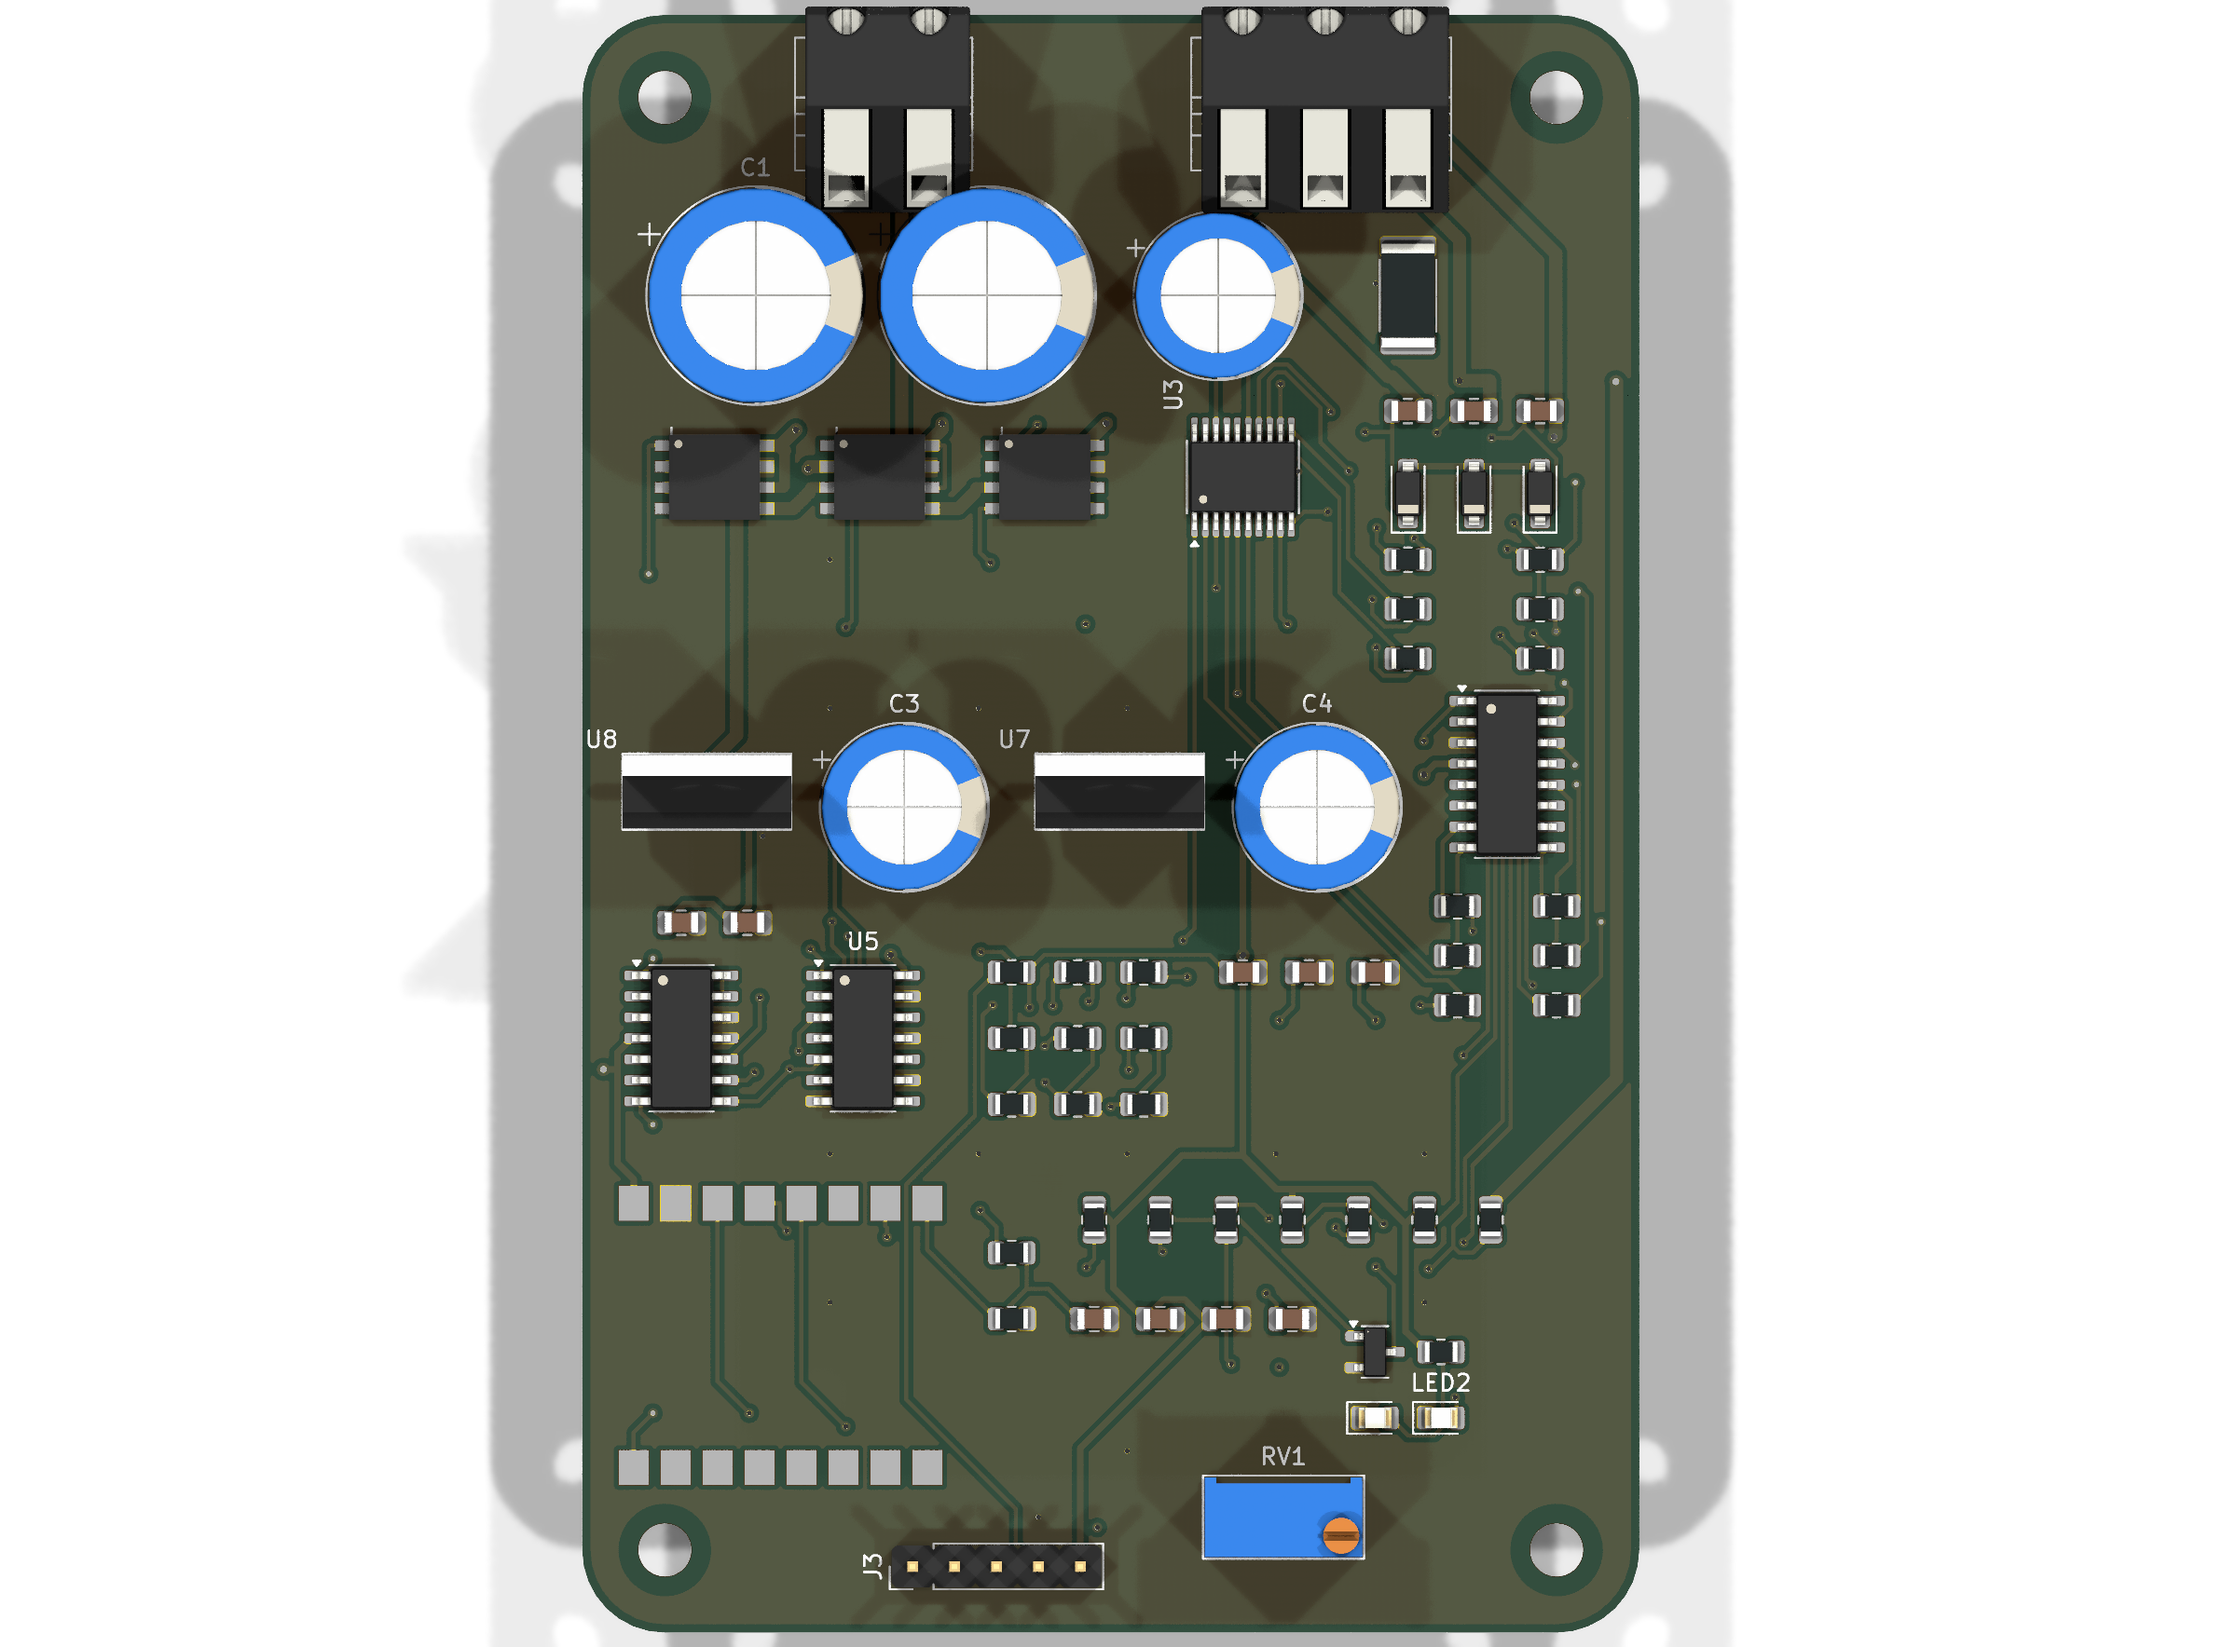
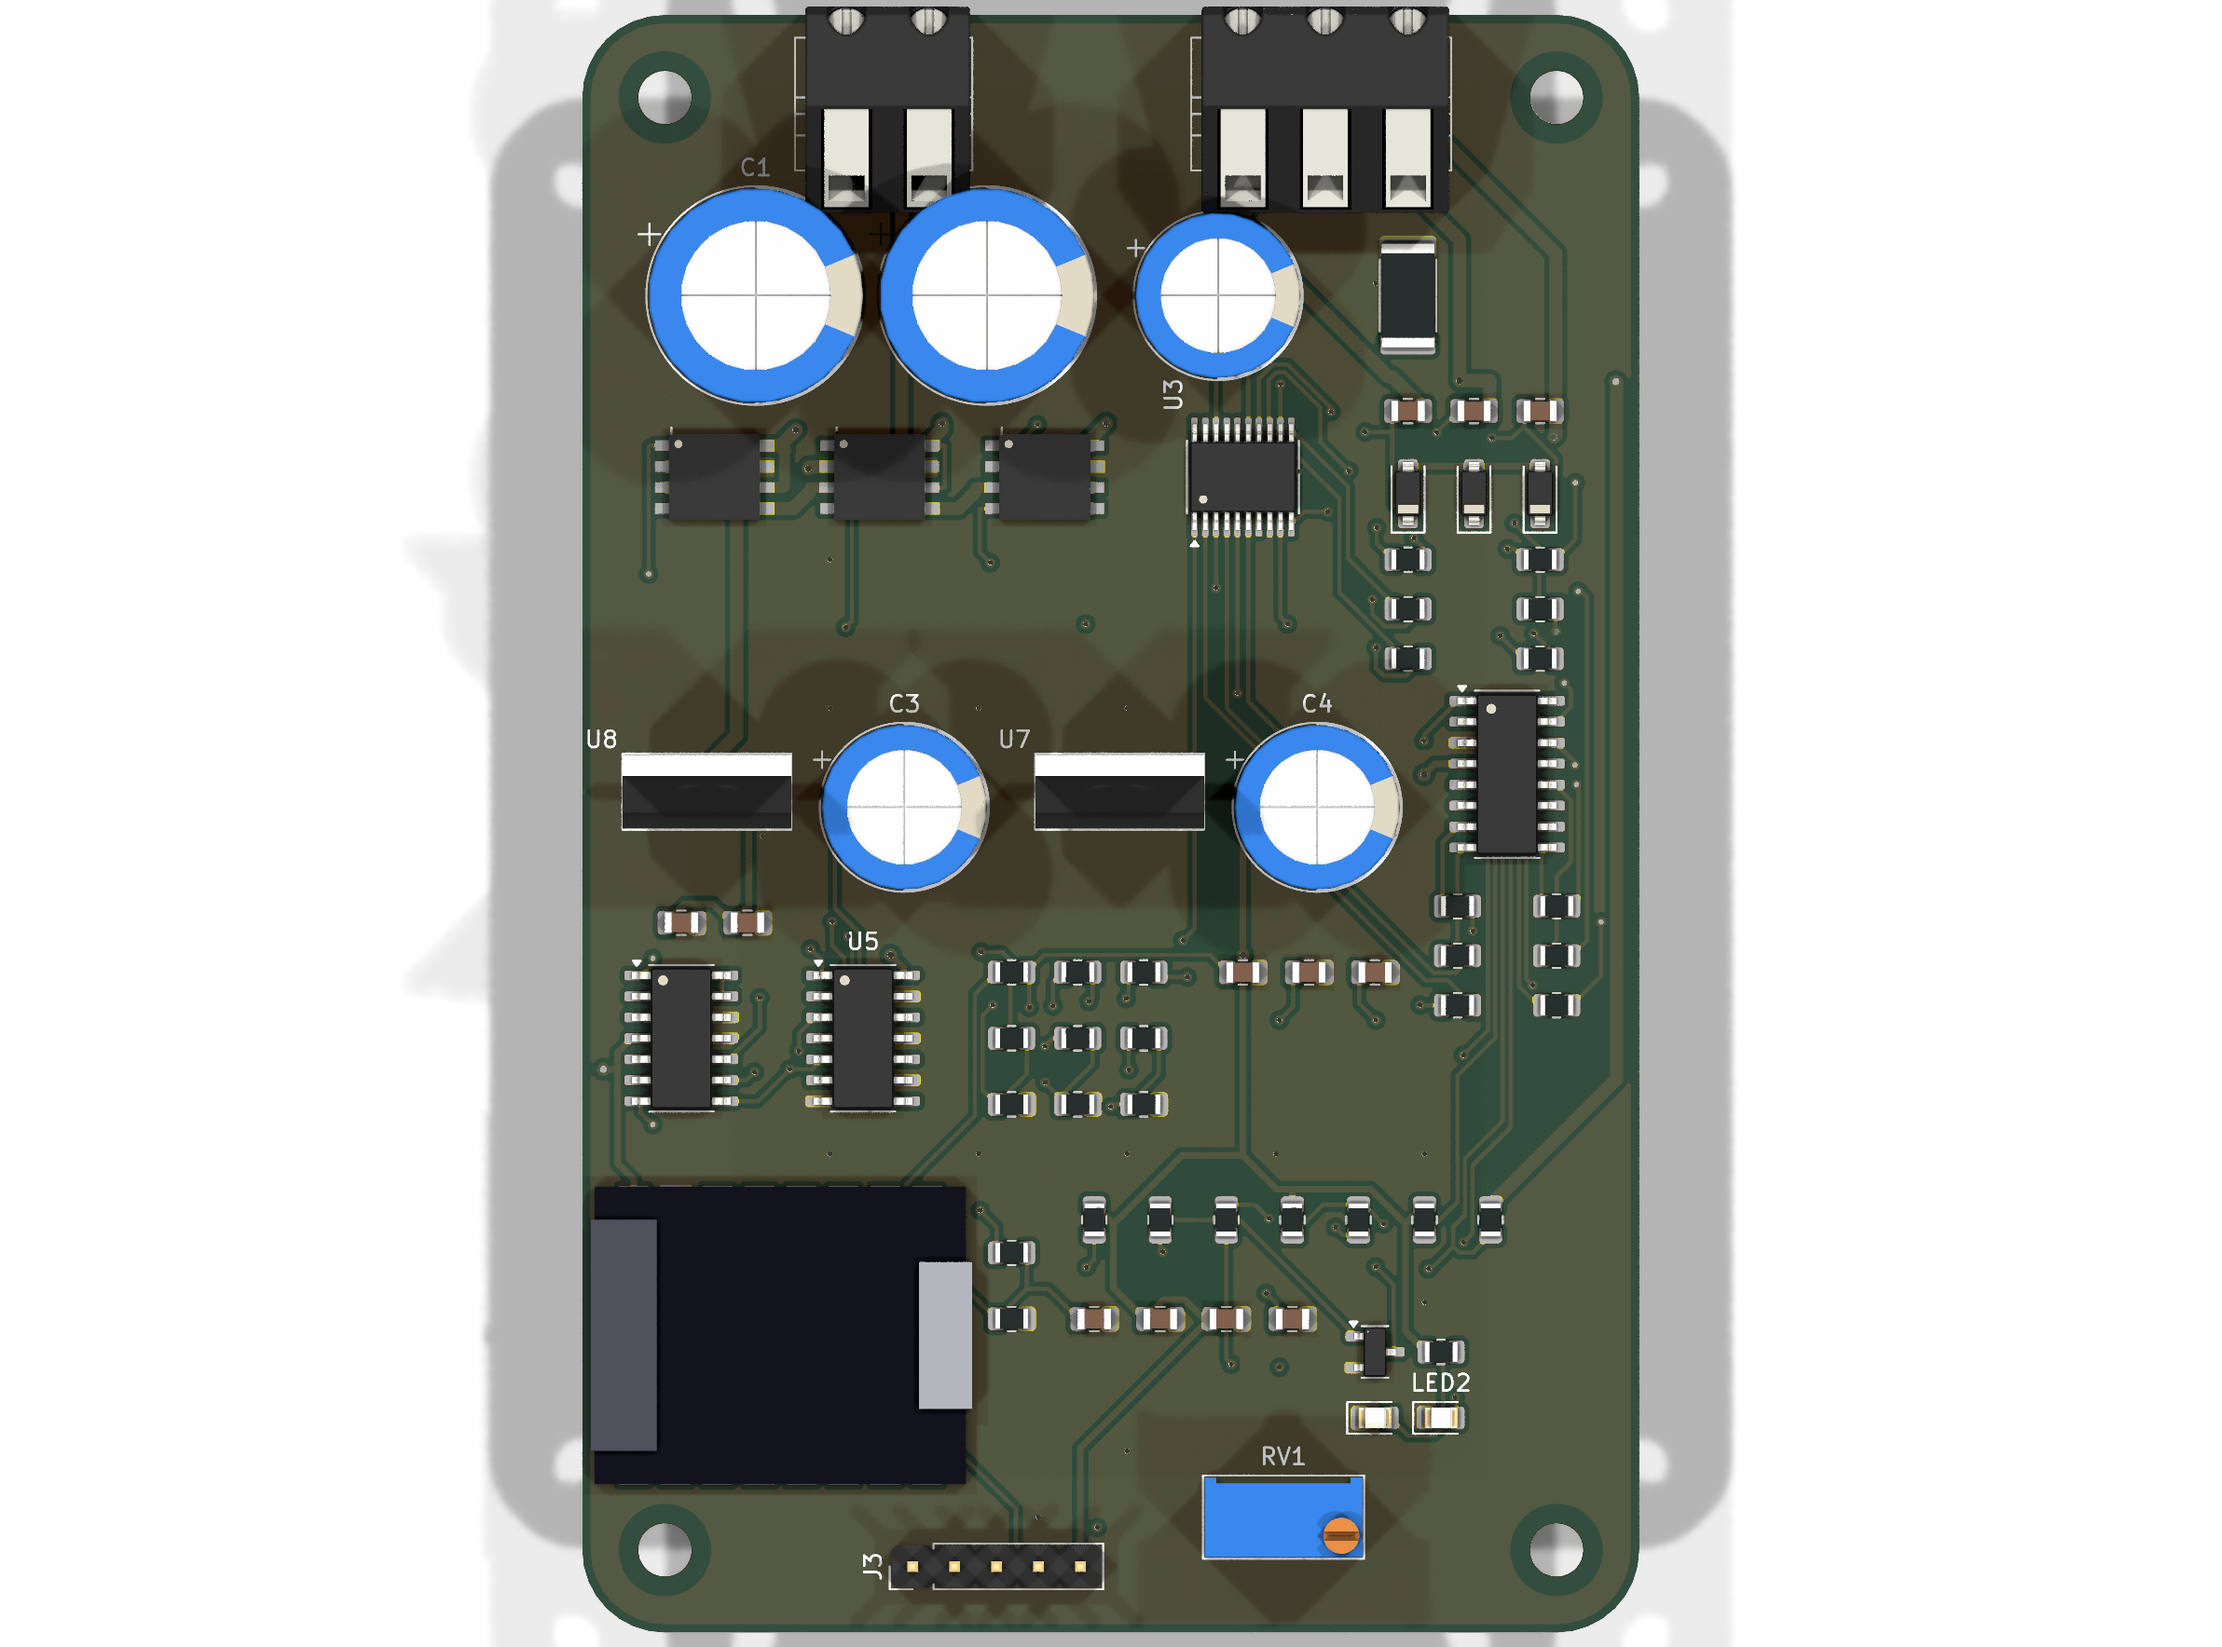
pcb(bldc_esp32_driver): install 3D models, representative ESP32 body
The 'checking_3D_models' plugin reported 68 missing models because
KICAD9_3DMODEL_DIR pointed at /usr/share/kicad/3dmodels, which does not exist on
this machine. Fixed properly rather than per-render:

- Extracted the 17 models this board references from kicad-packages3d into
  ~/.local/share/kicad/3dmodels (the package ships them as zip files named
  .stpZ) and registered KICAD9_3DMODEL_DIR in kicad_common.json, so both the
  GUI and kicad-cli resolve them with no environment override.
- All 68 model references now resolve.
- Three models are not in the library and use close substitutes: the two MaiXu
  MX126 terminal blocks (Altech AK300, same 5.00 mm pitch) and the JY01 SOP-16
  (SOIC-16, same 3.9x9.9 mm P1.27 body).

U6 (ESP32-C3 SuperMini) has no official model anywhere freely available -- it is
a third-party board, absent from the Espressif library, and the GrabCAD /
Printables / SnapEDA versions need an account. Added a dimensionally correct
representative body (22.5 x 18 x 1.6 mm plus USB-C and antenna) as a VRML model
in Custom.3dshapes. Note VRML uses 0.1-inch units, not millimetres.

Renders regenerated; DRC 0/0. Plugin reports are now gitignored.

Changed region(s): [[0.2483, 0.7155, 0.4656, 0.9333]]

diff --git a/PCB/bldc_esp32_driver/README.md b/PCB/bldc_esp32_driver/README.md
@@ -208,6 +208,14 @@ fanout corridor, and placing it in line with the FETs makes them unreachable.
   as **zip files named `.stpZ`**, not zstd. Unzip the ones the board references and point
   `KICAD9_3DMODEL_DIR` at the result:
   `KICAD9_3DMODEL_DIR=<dir> kicad-cli pcb render ...`
+  This project's models are installed at `~/.local/share/kicad/3dmodels` and the path is
+  registered in `~/.config/kicad/9.0/kicad_common.json`, so a plain render works.
+- **U6 (ESP32-C3 SuperMini) has no official 3D model.** It is a third-party board, so it
+  is not in the Espressif library (which covers ESP32-C3-MINI-1/WROOM-02 only), and the
+  GrabCAD/Printables/SnapEDA models need an account. A dimensionally correct
+  representative body (22.5 x 18 x 1.6 mm + USB-C + antenna area) is used instead,
+  from `Custom.3dshapes/ESP32-C3-SuperMini.wrl`. It is for visualisation, not mechanical
+  clearance work.
 - The mask gerbers are emitted as **G36/G37 region fills**, not aperture flashes. Counting
   `%ADD`/`D03` in them reports zero and looks catastrophic; count `G36` instead.
 
